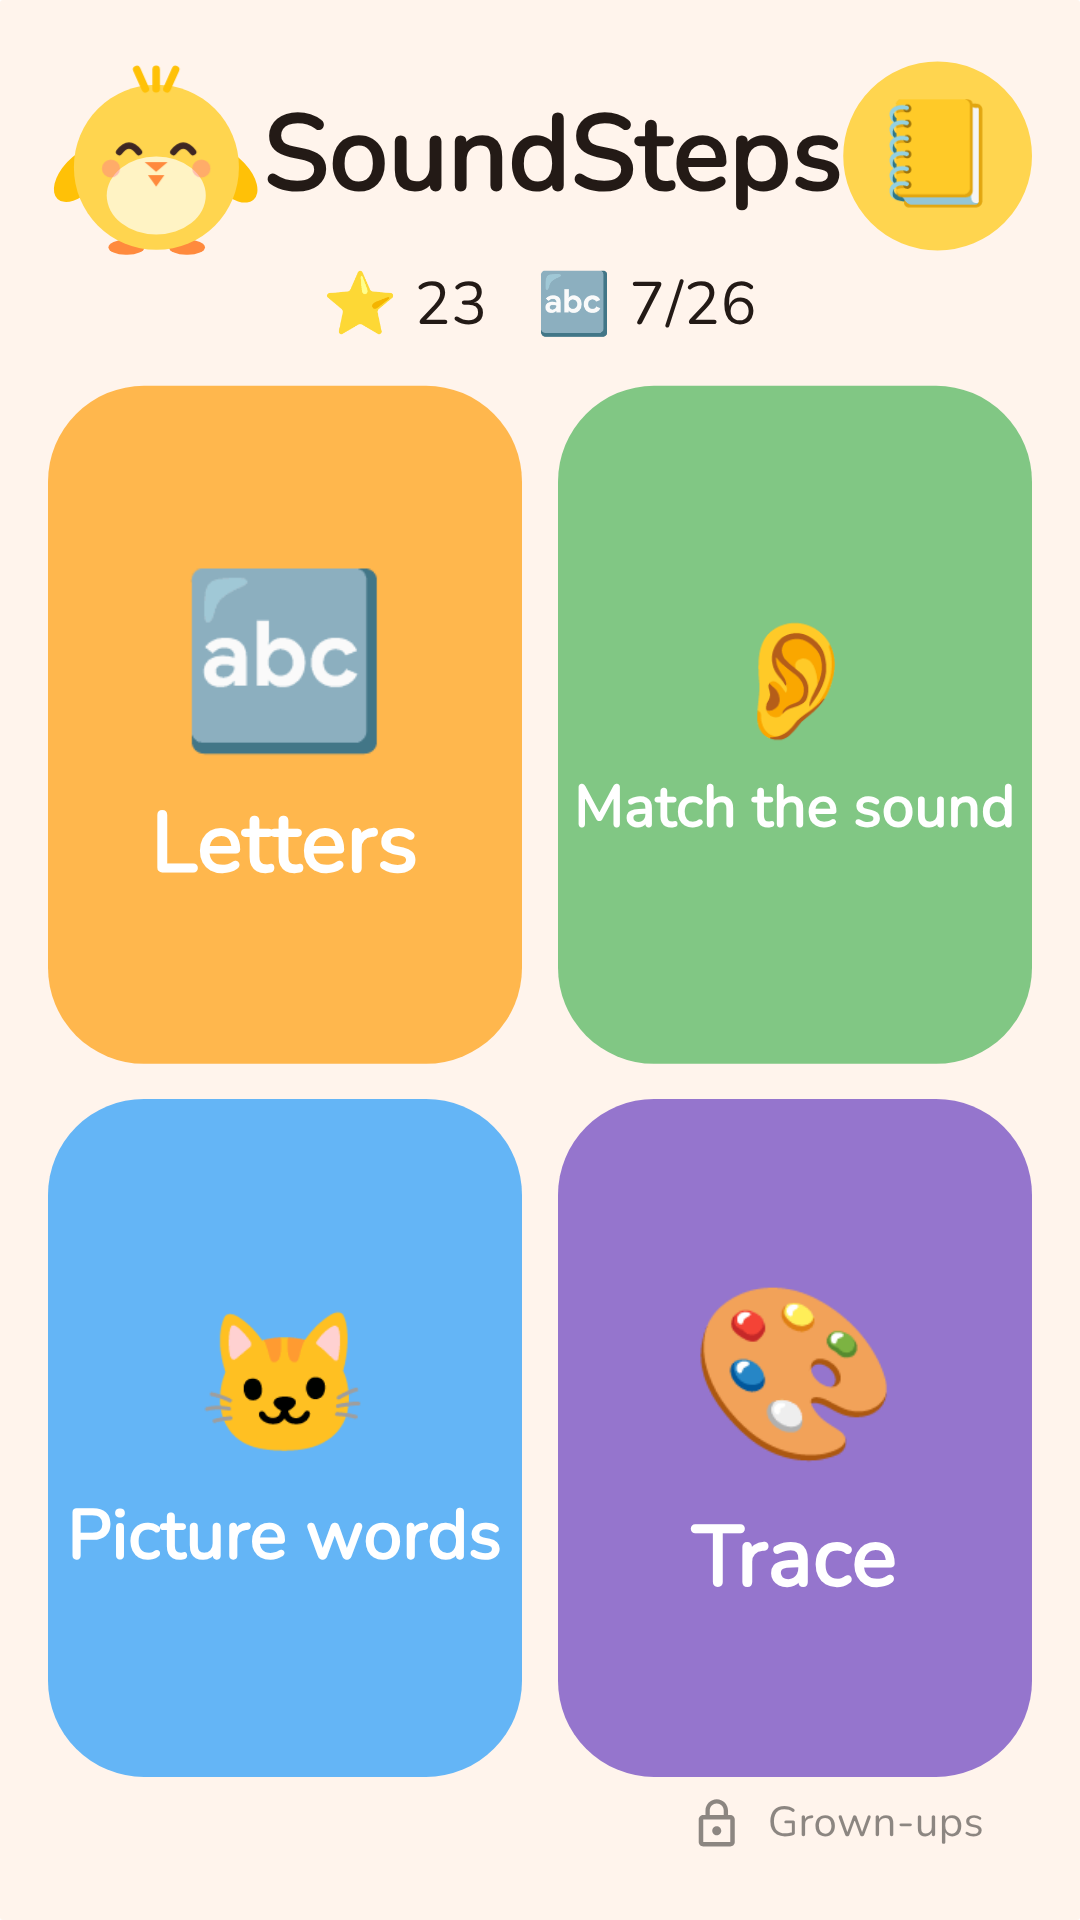
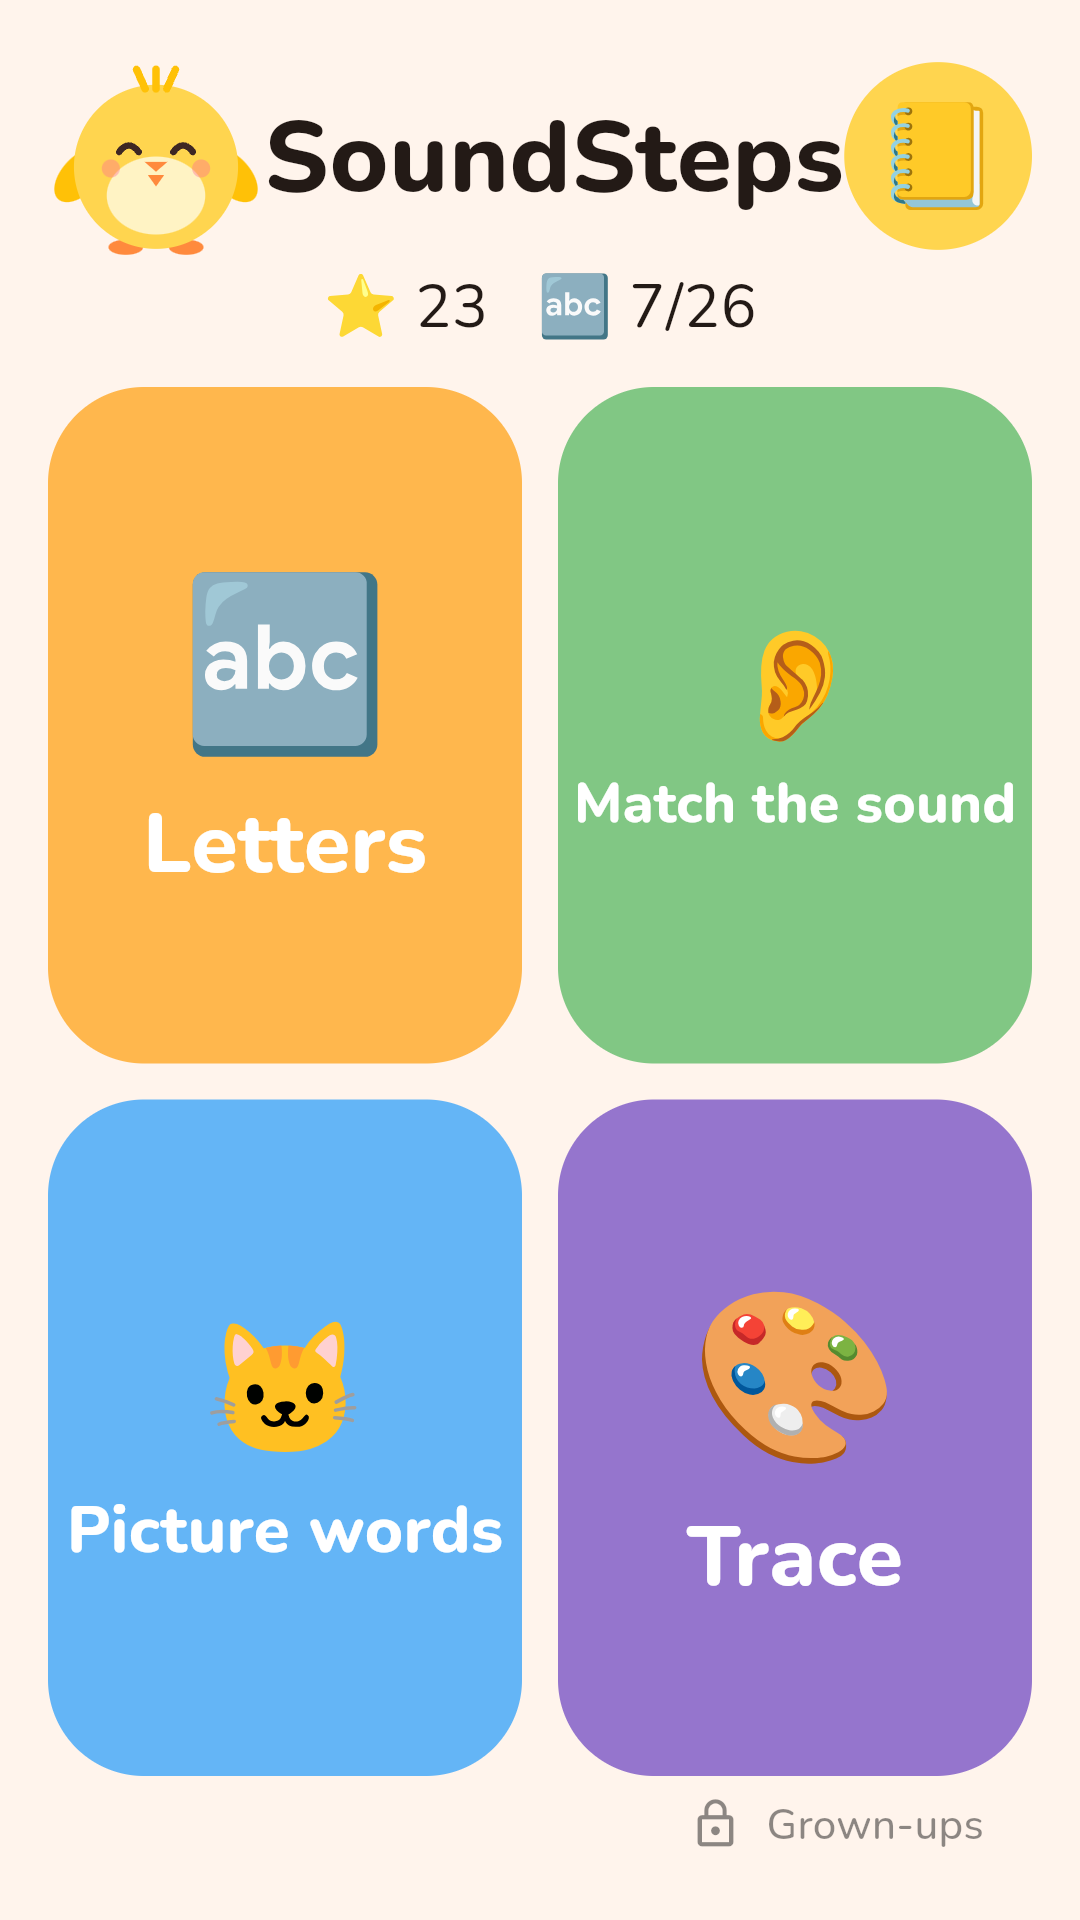
chore: run CI's Flutter (3.44.7) in cloud sessions; complete pubspec.lock
The session-start hook pinned Flutter 3.24 and never installed anything,
because the cloud environment's setup script had already put 3.24 in
~/flutter. In-session, 18 test files failed to compile, the analyzer showed
116 issues, and pubspec.lock was rewritten every session.

- The hook reads FLUTTER_VERSION from ci.yml, installs that release
  (SHA-256 verified) into ~/flutter-<version> and puts it first on PATH.
  In-session now: 732/732 tests pass, analyzer clean.
- pubspec.lock gains flutter_tts, missing since SoundSteps added it (the
  lock kept being reverted to undo the old Flutter's rewrites).
- Store images re-rendered on 3.44 (icons and font weights now correct);
  separate web build dirs; the trace pad is its own semantics node.

Claude-Session: https://claude.ai/code/session_01BQNAB9ZkH5bLkHdeJjoPiH

diff --git a/tool/soundsteps_store_shots.js b/tool/soundsteps_store_shots.js
@@ -1,6 +1,7 @@
 // Captures SoundSteps Play Store images from the real app (web build):
 // six 1080x1920 phone screenshots and the 1024x500 feature graphic.
-// Usage (from the repo root, after the two web builds in STORE_ASSETS.md):
+// Usage (from the repo root, after the two web builds in STORE_ASSETS.md,
+// which write build/soundsteps_web and build/store_art):
 //   NODE_PATH=$(npm root -g) node tool/soundsteps_store_shots.js
 // Needs Node with the `playwright` package and a Chromium it can launch.
 const http = require('http');
@@ -51,7 +52,7 @@ function seed() {
 
 (async () => {
   fs.mkdirSync(OUT, { recursive: true });
-  const app = await serve(path.resolve('build/web'));
+  const app = await serve(path.resolve('build/soundsteps_web'));
   const art = await serve(path.resolve('build/store_art'));
   const browser = await chromium.launch().catch(() =>
     chromium.launch({ executablePath: '/opt/pw-browsers/chromium-1194/chrome-linux/chrome' }));
@@ -96,7 +97,10 @@ function seed() {
   await tap('Back'); await page.waitForTimeout(1000);
 
   await tap('Trace'); await page.waitForTimeout(1500);
-  const pad = await page.locator('[aria-label^="Trace the letter"]').first().boundingBox();
+  // Newer Flutter web exposes semantics labels as text, older as aria-label.
+  const pad = await page.locator('flt-semantics')
+    .filter({ hasText: /^Trace the letter/ })
+    .or(page.locator('[aria-label^="Trace the letter"]')).last().boundingBox(); // last = deepest
   const at = ([x, y]) => [pad.x + x * pad.width, pad.y + y * pad.height];
   await page.mouse.move(...at([.5, .1])); await page.mouse.down();
   await page.mouse.move(...at([.2, .9]), { steps: 12 }); await page.mouse.up();

diff --git a/lib/soundsteps/screens/trace_screen.dart b/lib/soundsteps/screens/trace_screen.dart
@@ -148,7 +148,11 @@ class _TraceScreenState extends State<TraceScreen> {
                       final size = box.biggest;
                       return Stack(
                         children: [
+                          // container: its own node, so screen readers (and
+                          // the web build) expose the pad's label rather than
+                          // dropping or merging it.
                           Semantics(
+                            container: true,
                             label: 'Trace the letter ${_letter.letter}',
                             child: GestureDetector(
                               key: const Key('trace-pad'),

diff --git a/tool/soundsteps_store_art.dart b/tool/soundsteps_store_art.dart
@@ -1,7 +1,8 @@
 // Renders the SoundSteps Play Store feature graphic (1024x500) with the real
 // Pip widget, so the store art always matches the app. Not part of the app.
 //
-//   flutter build web -t tool/soundsteps_store_art.dart --web-renderer html
+//   flutter build web -t tool/soundsteps_store_art.dart --release \
+//       --no-web-resources-cdn -o build/store_art
 //   node tool/soundsteps_store_shots.js   (see docs/soundsteps/STORE_ASSETS.md)
 import 'package:flutter/material.dart';
 import 'package:playsteps/soundsteps/widgets/mascot.dart';

diff --git a/docs/soundsteps/DECISIONS.md b/docs/soundsteps/DECISIONS.md
@@ -208,6 +208,26 @@ Android build or device (this environment has Flutter 3.24 and no Android SDK).
     Developer setup) and an iOS launch screen per app (both apps share the
     plain white LaunchScreen.storyboard).
 
+## Tooling
+
+47. **The cloud session now runs the same Flutter as CI (3.44.7).** The
+    repo's session-start hook pinned 3.24 (stale; its own comment said it
+    matched CI) and, worse, never installed anything because the cloud
+    environment's setup script had already put 3.24 in `~/flutter`. Result:
+    18 test files failed to compile in-session, the analyzer reported 116
+    issues, and `pubspec.lock` was rewritten every session. The hook now
+    reads the version from `ci.yml`, installs it (checksum-verified) into
+    `~/flutter-<version>` and puts it first on PATH. In-session: 732/732
+    tests pass, analyzer clean. A re-run takes ~2 s.
+48. **`pubspec.lock` now includes `flutter_tts`.** It was missing since
+    SoundSteps added the dependency: the lock kept being reverted to undo the
+    old Flutter's rewrites, which also threw away the one real change. CI
+    resolved it on the fly; the lock is now complete and reproducible.
+49. **Store images re-rendered on Flutter 3.44** (CanvasKit): icons and
+    Nunito's weights now render as in the app. Each web build gets its own
+    output dir, and the trace pad is now its own semantics node so screen
+    readers (and the capture script) can find it.
+
 ## Deliberately not done
 
 - **Recorded audio / illustrations.** Need assets you must create or license;

diff --git a/docs/soundsteps/STORE_ASSETS.md b/docs/soundsteps/STORE_ASSETS.md
@@ -5,9 +5,11 @@ listing never drifts from what a parent installs. Regenerate after any visible
 UI change:
 
 ```bash
-# 1. The app and the feature-graphic page, as web builds
-flutter build web -t lib/soundsteps/main.dart --web-renderer html --release
-flutter build web -t tool/soundsteps_store_art.dart --web-renderer html --release -o build/store_art
+# 1. The app and the feature-graphic page, as web builds. Separate output
+#    dirs: a second build into build/web clobbered the first one's fonts.
+#    --no-web-resources-cdn bundles the renderer instead of fetching it.
+flutter build web -t lib/soundsteps/main.dart --release --no-web-resources-cdn -o build/soundsteps_web
+flutter build web -t tool/soundsteps_store_art.dart --release --no-web-resources-cdn -o build/store_art
 
 # 2. Capture (needs Node + the `playwright` package + Chromium)
 NODE_PATH=$(npm root -g) node tool/soundsteps_store_shots.js
@@ -23,9 +25,6 @@ The script seeds a believable few weeks of play for a child called "Mia" (23
 stars, 7 letters learned, D tricky, ~70 minutes this week) so screens show a
 lived-in app, not an empty one. All of it is fake demo data in the browser's
 storage; nothing is uploaded.
-
-`--web-renderer html` is for the Flutter version in this repo's cloud
-container (3.24). On newer Flutter, which dropped that flag, omit it.
 
 Caveats: these are web renders of the Flutter UI. The layout, art and text
 match the Android app; system chrome (status bar) is not shown, and emoji are
